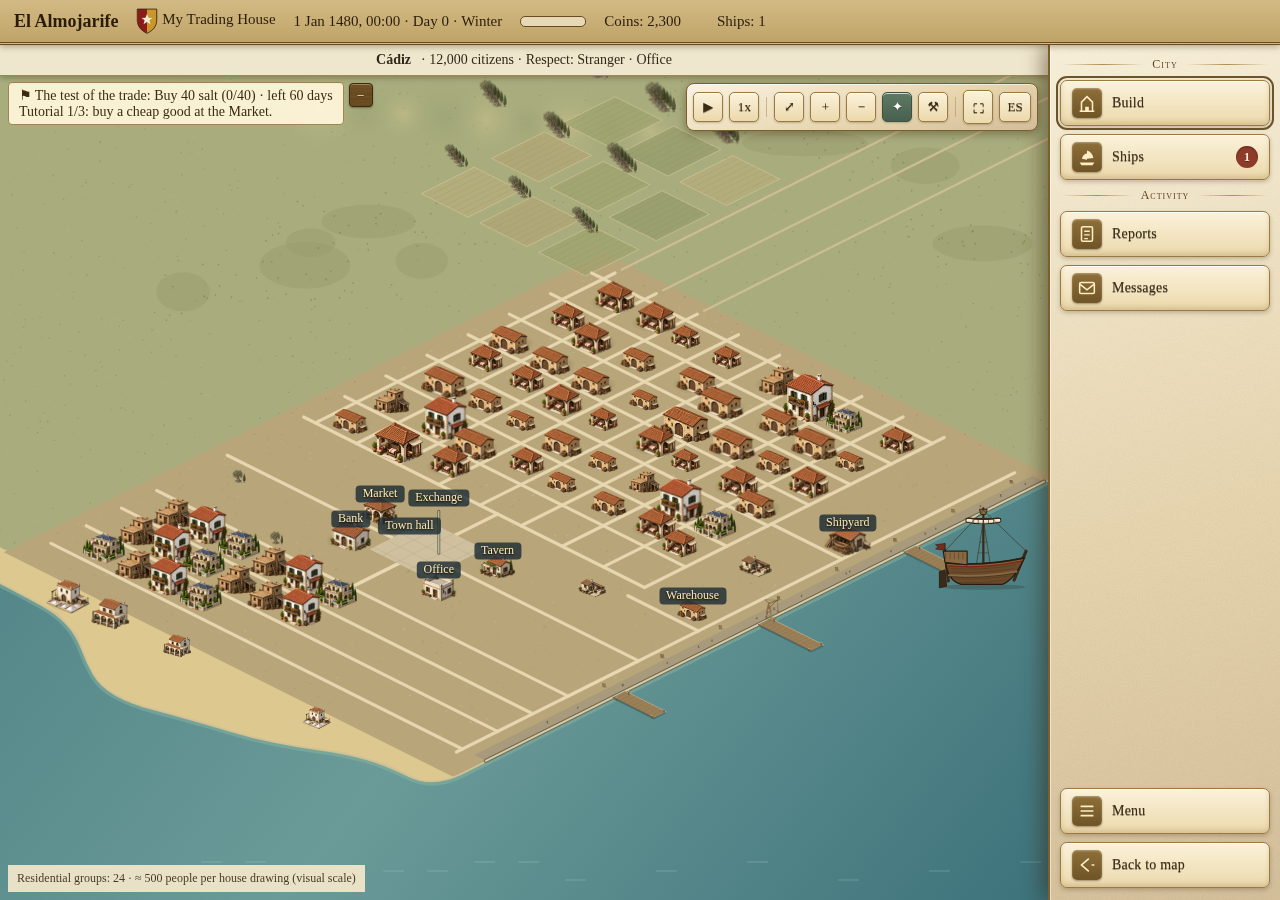
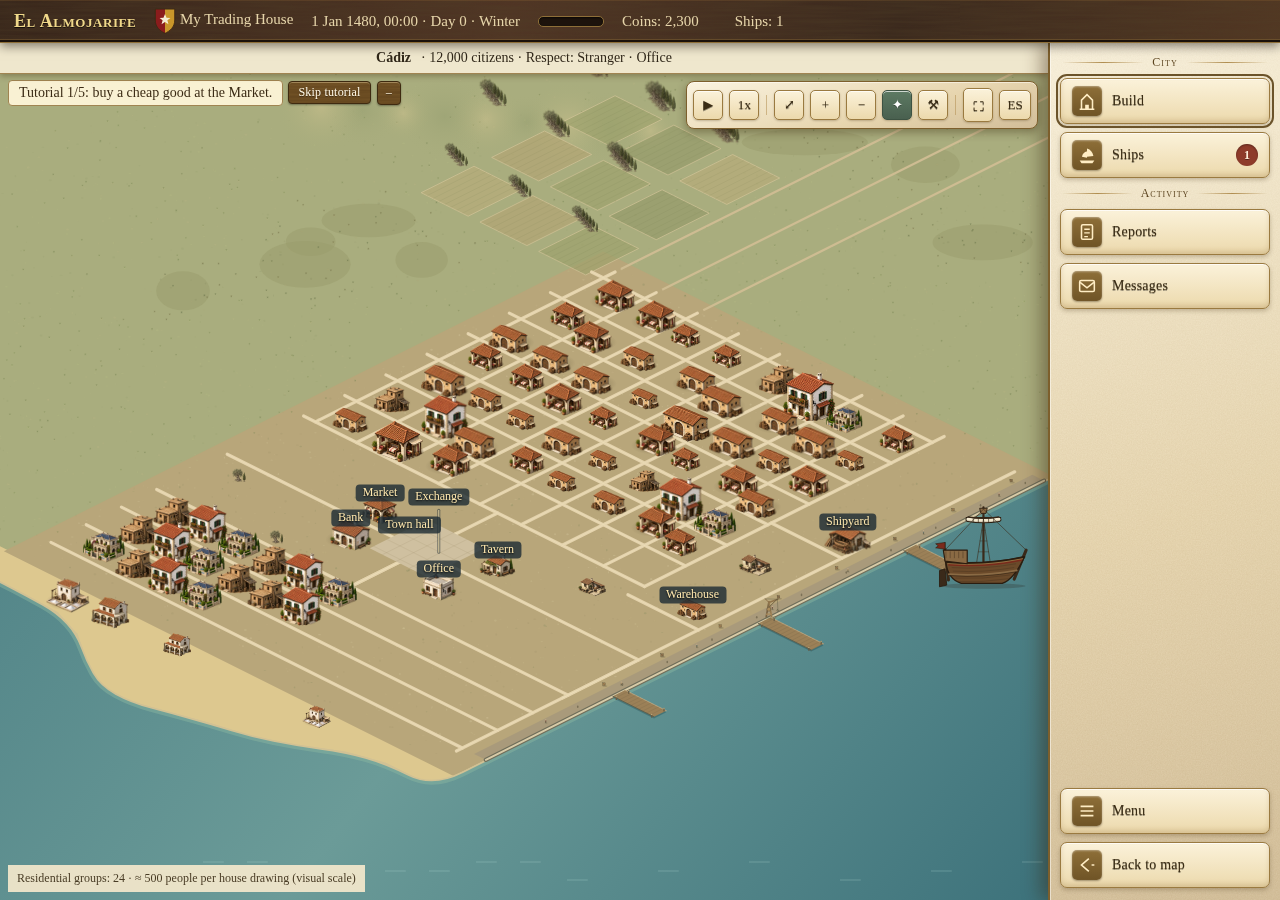
docs: refresh city and map screenshots from merged main

diff --git a/README.md b/README.md
@@ -32,7 +32,7 @@ You are a small merchant with one cog and a few coins in a harbour town. Buy che
 
 ## Screenshots
 
-_The city plan (`city2d.png`) and sea chart (`map.png`) were refreshed on 25 Oct 2026 from the playable build at `main` 2bca84349d37f49e839aafae2710fdfe89bf2ba0 (English). The remaining screenshots are earlier captures and were not refreshed in that update. Refresh screenshots when the UI changes so they never show unmerged work._
+_The city plan (`city2d.png`) and sea chart (`map.png`) were refreshed on 26 Oct 2026 from the playable build at `main` d8a7383bf9713fd0d4f980363685cc1d06a1a22b (English). The remaining screenshots are earlier captures and were not refreshed in that update. Refresh screenshots when the UI changes so they never show unmerged work._
 
 | The city plan | Trade in the market |
 |---|---|
